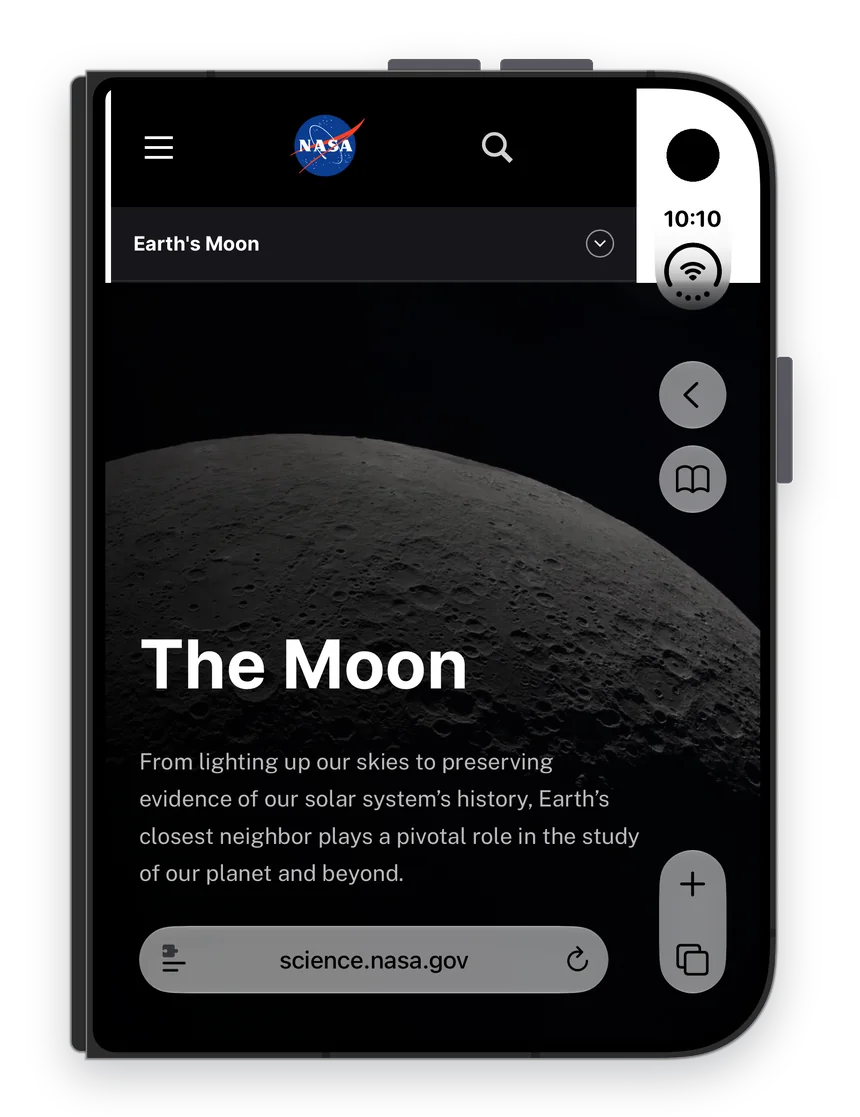
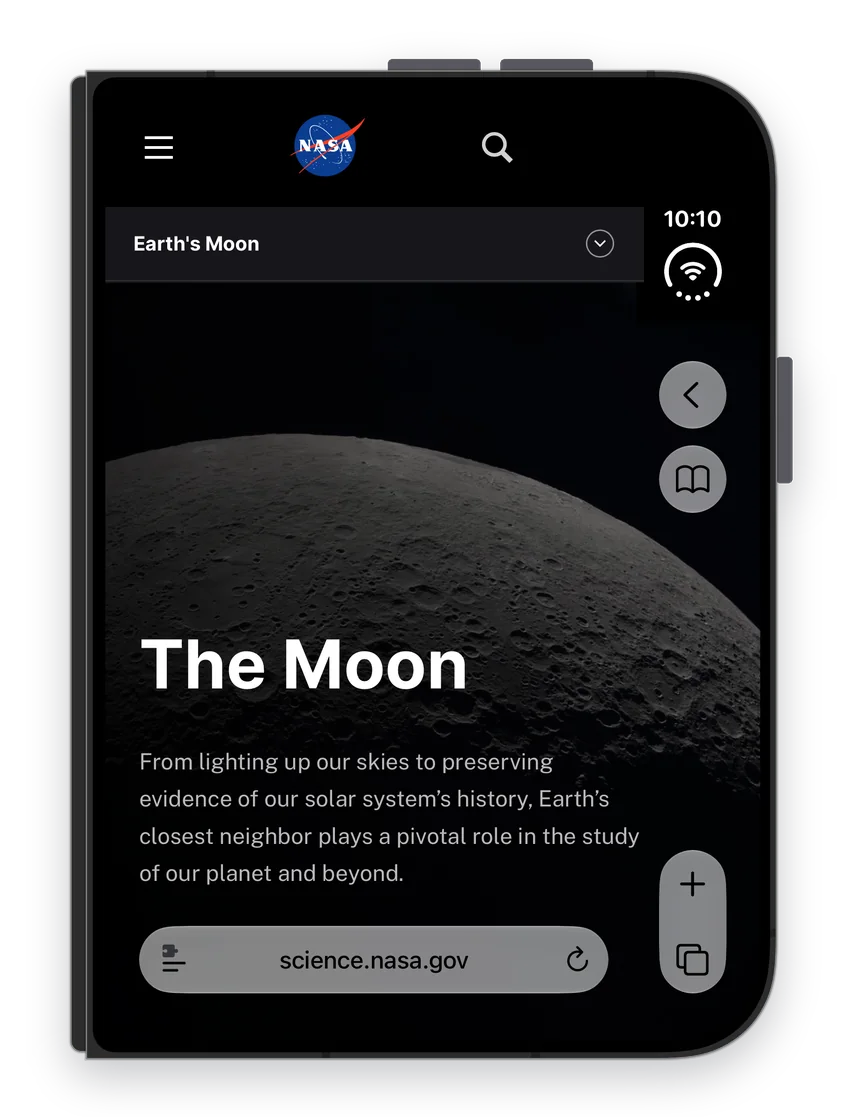
Revised Moon pair: black strip behind the clock, no hairline

Changed region(s): [[0.7256, 0.0609, 0.907, 0.2739], [0.1209, 0.0913, 0.1512, 0.2435]]

diff --git a/index.html b/index.html
@@ -59,8 +59,8 @@
       <div class="slides" tabindex="0" aria-label="Websites without and with Widen; swipe for more">
         <div class="slide" data-site="NASA">
           <div class="flip-pics">
-            <img class="pic-before" src="img/moon-before.webp?v=8" width="860" height="1117" alt="NASA's Moon page on iPhone Duo's outer display, without Widen: a white column runs down beside Safari's buttons">
-            <img class="pic-after" src="img/moon-after.webp?v=8" width="860" height="1117" alt="The same page with Widen: the Moon runs right under Safari's buttons">
+            <img class="pic-before" src="img/moon-before.webp?v=9" width="860" height="1117" alt="NASA's Moon page on iPhone Duo's outer display, without Widen: a white column runs down beside Safari's buttons">
+            <img class="pic-after" src="img/moon-after.webp?v=9" width="860" height="1117" alt="The same page with Widen: the Moon runs right under Safari's buttons">
           </div>
           <p class="slide-cap"><b>NASA</b>
             <span class="cap-before">A white column runs down beside the buttons.</span>
